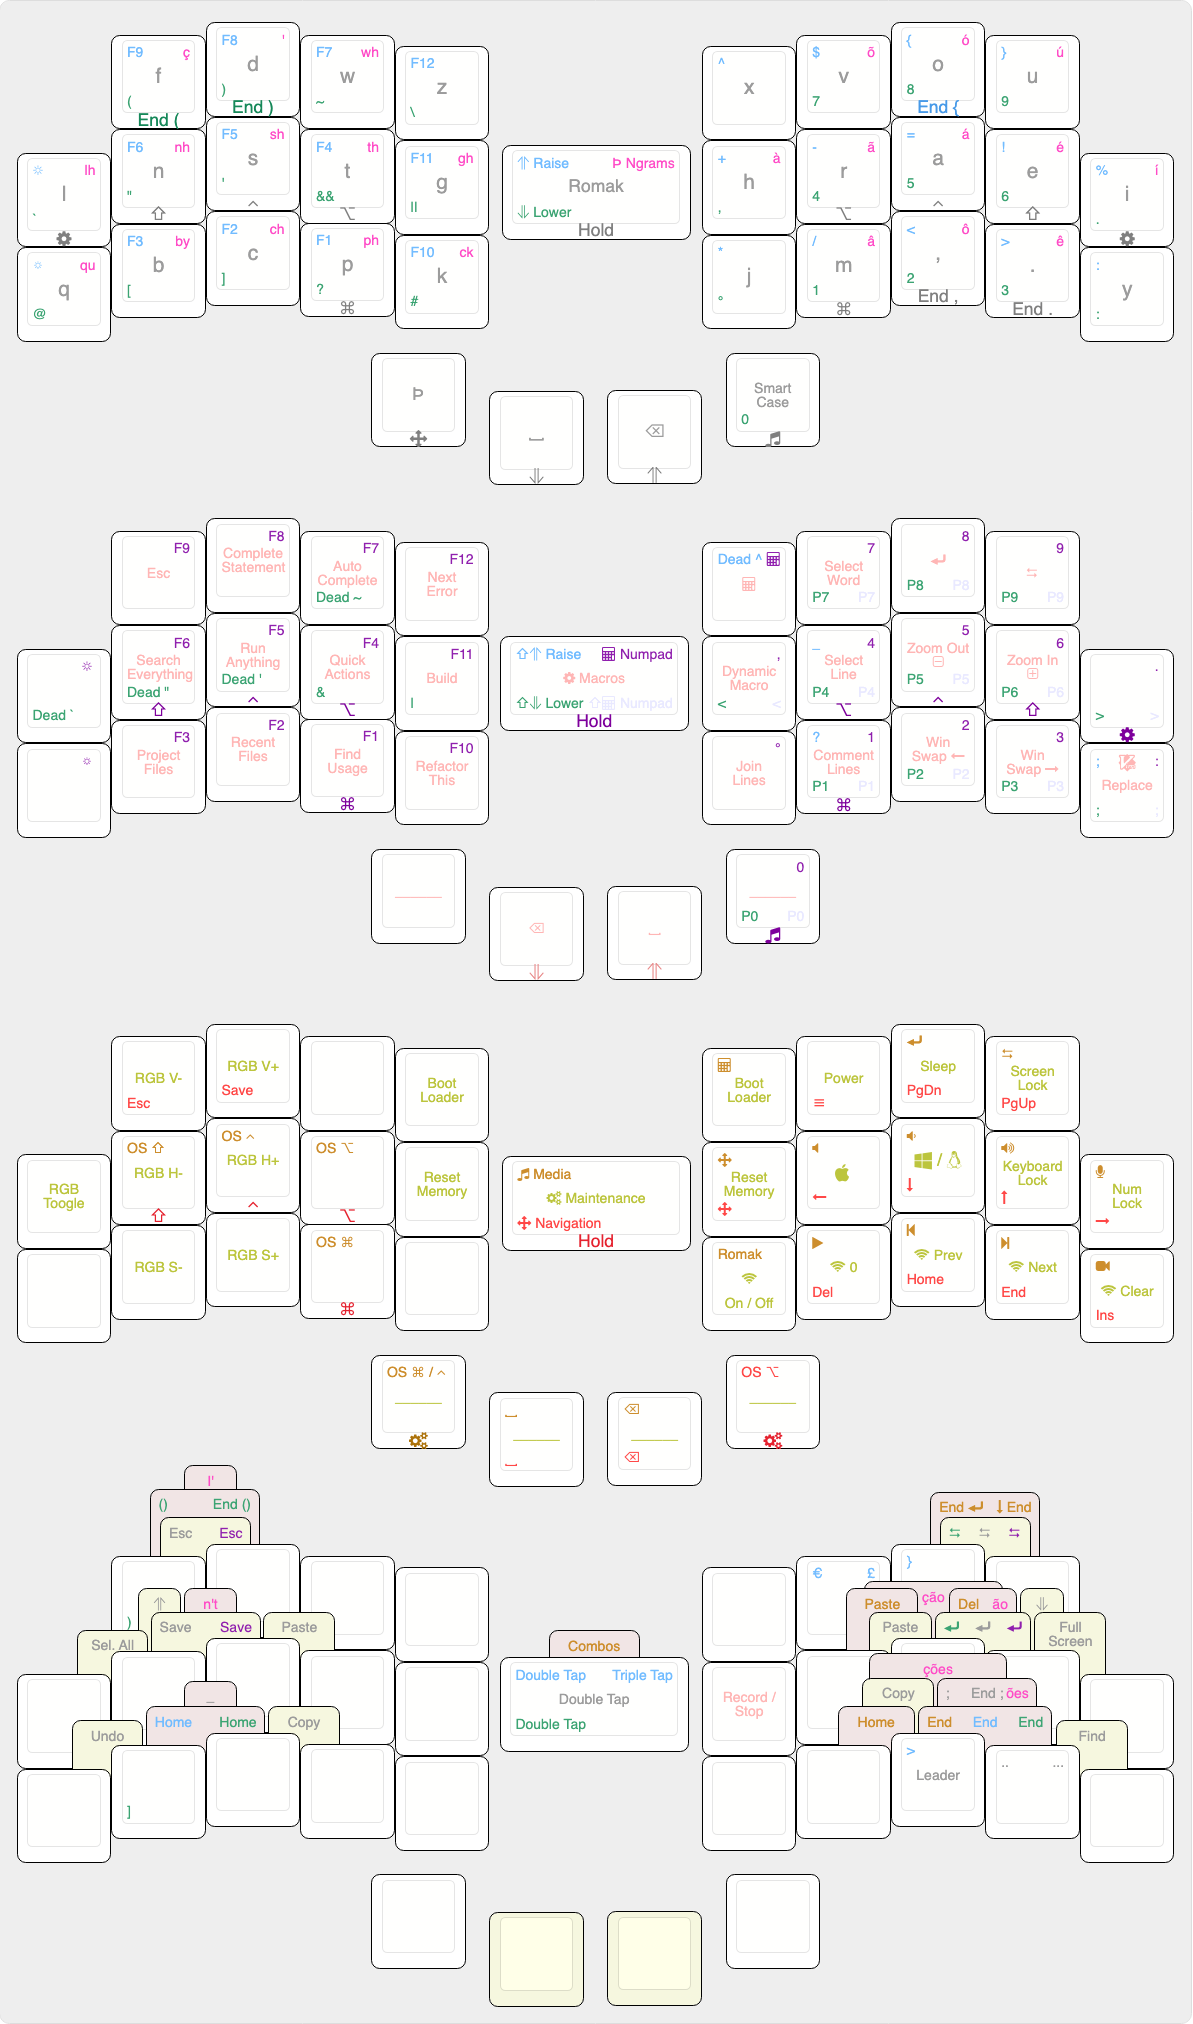
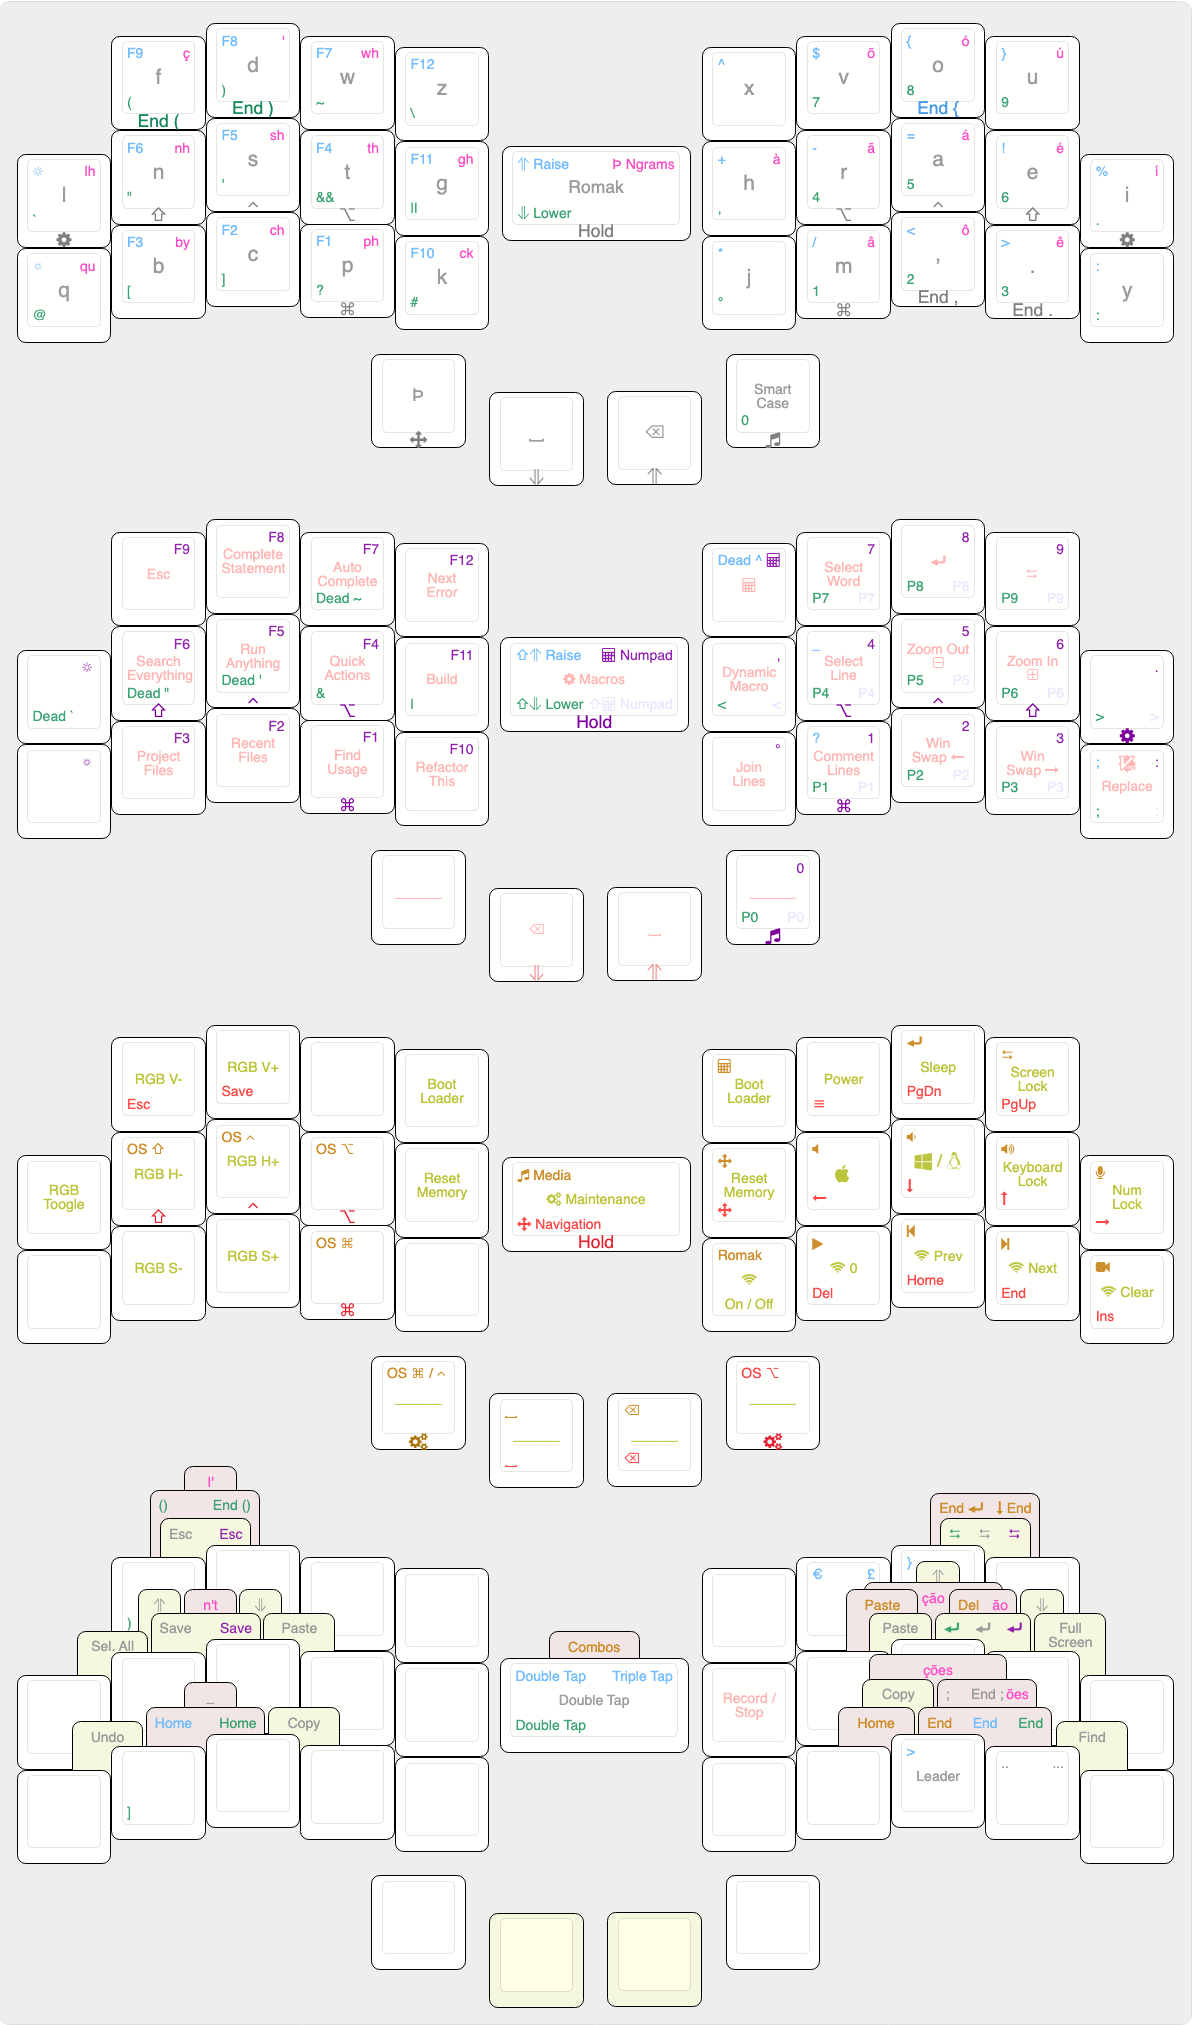
add combos for oneshot activation of symbol layers

diff --git a/src/qmk/users/rafaelromao/features/combos.c b/src/qmk/users/rafaelromao/features/combos.c
@@ -43,6 +43,7 @@ const uint16_t PROGMEM r_ng_coes_combo[] = {MC_CR_A, MC_CR_O, MC_CR_E, COMBO_END
 const uint16_t PROGMEM l_rom_esc_combo[] = {LOW_SPC, KC_F, KC_D, COMBO_END};
 const uint16_t PROGMEM l_rom_sal_combo[] = {LOW_SPC, KCL_MAC, LSFTT_N, COMBO_END};
 const uint16_t PROGMEM l_rom_rai_combo[] = {LOW_SPC, LSFTT_N, COMBO_END};
+const uint16_t PROGMEM l_rom_low_combo[] = {LOW_SPC, LCTLT_S, COMBO_END};
 const uint16_t PROGMEM l_rom_sav_combo[] = {LOW_SPC, LSFTT_N, LCTLT_S, COMBO_END};
 const uint16_t PROGMEM l_rom_usc_combo[] = {KC_B, KC_C, COMBO_END};
 const uint16_t PROGMEM l_rom_pas_combo[] = {LOW_SPC, LCTLT_S, LALTT_T, COMBO_END};
@@ -52,6 +53,7 @@ const uint16_t PROGMEM l_rom_cop_combo[] = {LOW_SPC, KC_C, LGUIT_P, COMBO_END};
 const uint16_t PROGMEM r_rom_tab_combo[] = {RAI_BSP, KC_O, KC_U, COMBO_END};
 const uint16_t PROGMEM r_rom_pas_combo[] = {RAI_BSP, RALTT_R, RCTLT_A, COMBO_END};
 const uint16_t PROGMEM r_rom_ent_combo[] = {RAI_BSP, RCTLT_A, RSFTT_E, COMBO_END};
+const uint16_t PROGMEM r_rom_rai_combo[] = {RAI_BSP, RCTLT_A, COMBO_END};
 const uint16_t PROGMEM r_rom_low_combo[] = {RAI_BSP, RSFTT_E, COMBO_END};
 const uint16_t PROGMEM r_rom_ful_combo[] = {RAI_BSP, RSFTT_E, KCI_MAC, COMBO_END};
 const uint16_t PROGMEM r_rom_cop_combo[] = {RAI_BSP, RGUIT_M, TD_COMM, COMBO_END};
@@ -67,17 +69,18 @@ const uint16_t PROGMEM rom_reset_combo[] = {KCL_MAC, KC_Q, KCI_MAC, KC_Y, COMBO_
 const uint16_t PROGMEM secret_1_combo[] = {SEC_1, SEC_2, SEC_3, SEC_4, COMBO_END};
 
 combo_t key_combos[COMBO_COUNT] = {
-    COMBO(l_num_esc_combo, KC_ESC),  COMBO(l_num_sav_combo, MC_SAVE), COMBO(r_num_ent_combo, KC_ENT),
-    COMBO(l_low_par_combo, TD_PARN), COMBO(r_low_tab_combo, KC_TAB),  COMBO(r_low_ent_combo, KC_ENT),
-    COMBO(r_ng_i_combo, MC_I),       COMBO(r_ng_nt_combo, MC_NT),     COMBO(r_ng_ao_combo, MC_AO),
-    COMBO(r_ng_cao_combo, MC_CAO),   COMBO(r_ng_oes_combo, MC_OES),   COMBO(r_ng_coes_combo, MC_COES),
-    COMBO(r_rom_cop_combo, MC_COPY), COMBO(r_rom_sco_combo, TD_SCLE), COMBO(l_rom_usc_combo, KC_UNDS),
-    COMBO(l_rom_sal_combo, MC_SELC), COMBO(r_rom_pas_combo, MC_PAST), COMBO(l_rom_rai_combo, OS_RAI),
-    COMBO(l_rom_sav_combo, MC_SAVE), COMBO(l_rom_pas_combo, MC_PAST), COMBO(l_rom_esc_combo, KC_ESC),
-    COMBO(r_rom_fin_combo, MC_FIND), COMBO(l_rom_und_combo, MC_UNDO), COMBO(l_rom_cop_combo, MC_COPY),
-    COMBO(r_rom_tab_combo, KC_TAB),  COMBO(r_rom_low_combo, OS_LOW),  COMBO(r_rom_ent_combo, KC_ENT),
-    COMBO(r_rom_ful_combo, MC_FULL), COMBO(l_low_hom_combo, KC_HOME), COMBO(r_low_end_combo, KC_END),
-    COMBO(l_rai_hom_combo, KC_HOME), COMBO(r_med_hom_combo, KC_HOME), COMBO(r_med_end_combo, KC_END),
-    COMBO(r_med_del_combo, KC_DEL),  COMBO(r_med_ent_combo, TD_EENT), COMBO(r_med_pas_combo, MC_PAST),
-    COMBO(r_rai_end_combo, KC_END),  COMBO(rom_reset_combo, QK_BOOT), COMBO(secret_1_combo, MC_SECRET_1),
+    COMBO(l_num_esc_combo, KC_ESC),  COMBO(l_num_sav_combo, MC_SAVE),    COMBO(r_num_ent_combo, KC_ENT),
+    COMBO(l_low_par_combo, TD_PARN), COMBO(r_low_tab_combo, KC_TAB),     COMBO(r_low_ent_combo, KC_ENT),
+    COMBO(r_ng_i_combo, MC_I),       COMBO(r_ng_nt_combo, MC_NT),        COMBO(r_ng_ao_combo, MC_AO),
+    COMBO(r_ng_cao_combo, MC_CAO),   COMBO(r_ng_oes_combo, MC_OES),      COMBO(r_ng_coes_combo, MC_COES),
+    COMBO(r_rom_cop_combo, MC_COPY), COMBO(r_rom_sco_combo, TD_SCLE),    COMBO(l_rom_usc_combo, KC_UNDS),
+    COMBO(l_rom_sal_combo, MC_SELC), COMBO(r_rom_pas_combo, MC_PAST),    COMBO(l_rom_rai_combo, OS_RAI),
+    COMBO(l_rom_low_combo, OS_LOW),  COMBO(l_rom_sav_combo, MC_SAVE),    COMBO(l_rom_pas_combo, MC_PAST),
+    COMBO(l_rom_esc_combo, KC_ESC),  COMBO(r_rom_fin_combo, MC_FIND),    COMBO(l_rom_und_combo, MC_UNDO),
+    COMBO(l_rom_cop_combo, MC_COPY), COMBO(r_rom_tab_combo, KC_TAB),     COMBO(r_rom_low_combo, OS_LOW),
+    COMBO(r_rom_rai_combo, OS_RAI),  COMBO(r_rom_ent_combo, KC_ENT),     COMBO(r_rom_ful_combo, MC_FULL),
+    COMBO(l_low_hom_combo, KC_HOME), COMBO(r_low_end_combo, KC_END),     COMBO(l_rai_hom_combo, KC_HOME),
+    COMBO(r_med_hom_combo, KC_HOME), COMBO(r_med_end_combo, KC_END),     COMBO(r_med_del_combo, KC_DEL),
+    COMBO(r_med_ent_combo, TD_EENT), COMBO(r_med_pas_combo, MC_PAST),    COMBO(r_rai_end_combo, KC_END),
+    COMBO(rom_reset_combo, QK_BOOT), COMBO(secret_1_combo, MC_SECRET_1),
 };

diff --git a/src/qmk/users/rafaelromao/features/custom_oneshot.c b/src/qmk/users/rafaelromao/features/custom_oneshot.c
@@ -5,6 +5,7 @@
 extern os_t os;
 
 static custom_oneshots_t custom_oneshots = {.timer = 0};
+static bool              holding_oneshot_layer = false;
 
 // Custom oneshot mods
 
@@ -81,7 +82,9 @@ void check_disable_oneshot(uint16_t keycode) {
         case OS_LGUI:
             break;
         default:
-            disable_oneshot_layer();
+            if (!holding_oneshot_layer) {
+                disable_oneshot_layer();
+            }
     }
 }
 
@@ -115,19 +118,6 @@ process_record_result_t process_custom_oneshot(uint16_t keycode, keyrecord_t *re
     bool isAnyOneShotButShift = isOneShotCtrl || isOneShotAlt || isOneShotGui;
 
     switch (keycode) {
-        case OS_RAI:
-            if (record->tap.count > 0) {
-                if (record->event.pressed) {
-                    if (IS_LAYER_ON(_RAISE)) {
-                        clear_oneshot_layer_state(ONESHOT_PRESSED);
-                    } else {
-                        set_oneshot_layer(_RAISE, ONESHOT_START);
-                        custom_oneshots.timer = timer_read();
-                    }
-                }
-                return PROCESS_RECORD_RETURN_FALSE;
-            }
-
         case OS_LOW:
             if (record->tap.count > 0) {
                 if (record->event.pressed) {
@@ -139,6 +129,30 @@ process_record_result_t process_custom_oneshot(uint16_t keycode, keyrecord_t *re
                     }
                 }
                 return PROCESS_RECORD_RETURN_FALSE;
+            } else {
+                if (record->event.pressed) {
+                    holding_oneshot_layer = true;
+                } else {
+                    holding_oneshot_layer = false;
+                }
+            }
+        case OS_RAI:
+            if (record->tap.count > 0) {
+                if (record->event.pressed) {
+                    if (IS_LAYER_ON(_RAISE)) {
+                        clear_oneshot_layer_state(ONESHOT_PRESSED);
+                    } else {
+                        set_oneshot_layer(_RAISE, ONESHOT_START);
+                        custom_oneshots.timer = timer_read();
+                    }
+                }
+                return PROCESS_RECORD_RETURN_FALSE;
+            } else {
+                if (record->event.pressed) {
+                    holding_oneshot_layer = true;
+                } else {
+                    holding_oneshot_layer = false;
+                }
             }
 
         case NAV_NG:

diff --git a/src/qmk/users/rafaelromao/config.h b/src/qmk/users/rafaelromao/config.h
@@ -22,7 +22,7 @@
 #define LEADER_NO_TIMEOUT
 
 // Configure combos
-#define COMBO_COUNT 39
+#define COMBO_COUNT 41
 #define COMBO_TERM 30
 #define EXTRA_SHORT_COMBOS
 #define COMBO_STRICT_TIMER

diff --git a/src/qmk/users/rafaelromao/features/macros.c b/src/qmk/users/rafaelromao/features/macros.c
@@ -394,6 +394,5 @@ process_record_result_t process_macros(uint16_t keycode, keyrecord_t *record) {
     };
 
     check_disable_oneshot(keycode);
-
     return PROCESS_RECORD_CONTINUE;
 }
